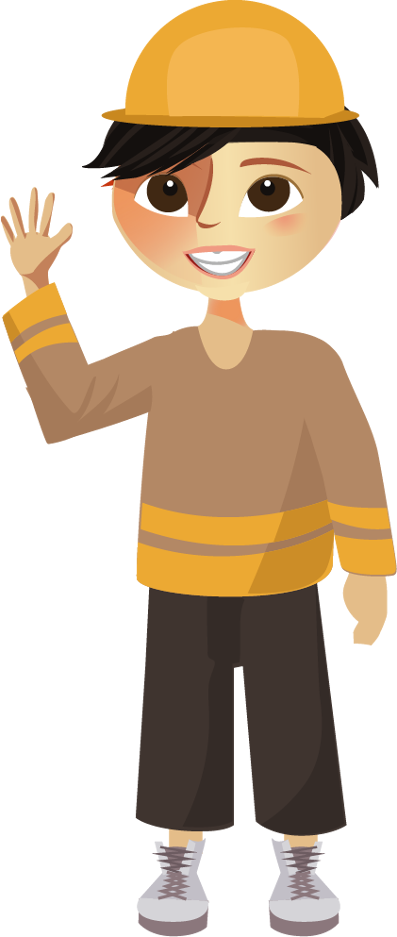
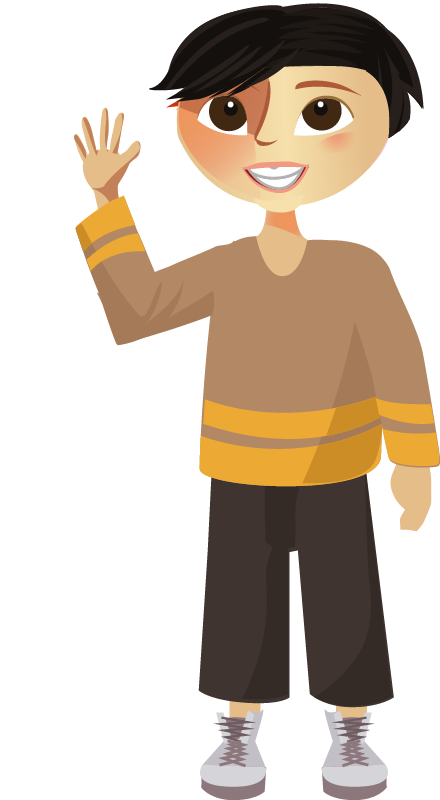
Added this cool menu animation :D
Working on Pre-RescueCatScreen

diff --git a/core/src/com/lh9/feg1/firekidsgame/files/AssetsManager.java b/core/src/com/lh9/feg1/firekidsgame/files/AssetsManager.java
@@ -14,6 +14,8 @@ public class AssetsManager extends Thread {
 
 	DataOrganizer dataOrganizer;
 
+	public Texture helmet1;
+	public Texture helmet2;
 	public Texture catHappy;
 	public Texture catSad;
 	public Texture oilButton;
@@ -26,6 +28,7 @@ public class AssetsManager extends Thread {
 	public Texture barNotFilledBlue;
 	public Texture voiceText;
 	public Texture vibrationsText;
+	public Texture roadPart;
 	public Texture textureFilteringText;
 	public Texture fpsText;
 	public Texture screenAwakeText;
@@ -205,8 +208,8 @@ public class AssetsManager extends Thread {
 		barNotFilledBlue = new Texture("others/barNotFilledBlue.png");
 		oilButton = new Texture("buttons/buttonOil.png");
 		boltButton = new Texture("buttons/buttonBolt.png");
-		oil = new Texture("others/oil.png");
-		bolt = new Texture("others/bolt.png");
+		oil = new Texture("others/Oil.png");
+		bolt = new Texture("others/Bolt.png");
 		rescueMetroSadPeople = new Texture(
 				"backgrounds/Rescue-metro-sad-people.png");
 		spritesheetBoyRunning = new Texture(
@@ -232,6 +235,8 @@ public class AssetsManager extends Thread {
 		menu = new Texture("buttons/Menu-Button.png");
 		longButton = new Texture("buttons/greenButtonLong.png");
 		arrow = new Texture("others/arrow.png");
+		helmet1 = new Texture("others/helmet1.png");
+		helmet2 = new Texture("others/helmet2.png");
 		handwheelNoHand = new Texture("others/handwheelNoHand.png");
 		button = new Texture("buttons/greenButton.png");
 		catHappy = new Texture("spritesheets/cat/Cat-happy.png");
@@ -240,6 +245,7 @@ public class AssetsManager extends Thread {
 		fireBar = new Texture("others/fireBar.png");
 		girlHead = new Texture("girl/girlHead.png");
 		basket = new Texture("spritesheets/basket.png");
+		roadPart = new Texture("backgrounds/roadPart.png");
 		boyHead = new Texture("boy/boyHead.png");
 		voiceText = new Texture("texts/Voice-text.png");
 		vibrationsText = new Texture("texts/Vibrations-text.png");
@@ -593,6 +599,8 @@ public class AssetsManager extends Thread {
 		runButtonLittle.setFilter(textureFilter, textureFilter);
 		pointer.setFilter(textureFilter, textureFilter);
 		speedBar.setFilter(textureFilter, textureFilter);
+		helmet1.setFilter(textureFilter, textureFilter);
+		helmet2.setFilter(textureFilter, textureFilter);
 		switchButton.setFilter(textureFilter, textureFilter);
 		lane.setFilter(textureFilter, textureFilter);
 		carRed.setFilter(textureFilter, textureFilter);
@@ -646,6 +654,7 @@ public class AssetsManager extends Thread {
 		boyTorso.setFilter(textureFilter, textureFilter);
 		boyHeadBigBlonde.setFilter(textureFilter, textureFilter);
 		authorsText.setFilter(textureFilter, textureFilter);
+		roadPart.setFilter(textureFilter, textureFilter);
 		fireMiniature.setFilter(textureFilter, textureFilter);
 		boyMainMenu.setFilter(textureFilter, textureFilter);
 		girlMainMenu.setFilter(textureFilter, textureFilter);

diff --git a/core/src/com/lh9/feg1/firekidsgame/screens/MenuScreen.java b/core/src/com/lh9/feg1/firekidsgame/screens/MenuScreen.java
@@ -35,6 +35,8 @@ public class MenuScreen implements Screen {
 	Button gender;
 	Button[] levelButtons;
 
+	float positions = -1000;
+	
 	boolean madeShakeScreen;
 
 	final Starter game;
@@ -69,9 +71,10 @@ public class MenuScreen implements Screen {
 
 		boy = new Human();
 		boy.create(assetsManager.boyWaving, 1, 1, 6, 1550, 0);
-		boy.setMaxSpeed(0);
+		boy.setMaxSpeed(0.25f);
 		boy.setAnimationOnly(true);
-
+		boy.setSpeed(3.5f);
+		
 		levelButtons = new Button[7];
 
 		for (int a = 0; a < 7; a++) {
@@ -114,7 +117,6 @@ public class MenuScreen implements Screen {
 		cloudManager.stop();
 
 		fireStation.goUp(825);
-
 		camera.reset();
 
 		camera.position.x = 957;
@@ -211,6 +213,12 @@ public class MenuScreen implements Screen {
 	}
 
 	void updateLogics(double delta) {
+		
+		if(positions < 0)
+			positions += delta*100 + Math.abs(positions)*0.025f;
+		if(positions > 0)
+			positions = 0;
+		
 		if (dataOrganizer.getGender() == false && gender.getSelection() == true) {
 			gender.setTexture(assetsManager.boyButton);
 			dataOrganizer.setGender(false);
@@ -239,7 +247,7 @@ public class MenuScreen implements Screen {
 				.getCatRescueScreen()) {
 			if (cloudManager.getAllScalesEqualOne() == true) {
 				dataOrganizer.saveData();
-				game.setScreen(new RescueCatScreen(game));
+				game.setScreen(new PreRescueCatScreen(game));
 			}
 		}
 		if (inputInterpreter.getSelectedScreenName() == variables
@@ -294,8 +302,13 @@ public class MenuScreen implements Screen {
 	}
 
 	void drawCharacters(float delta) {
-		batch.draw(assetsManager.girlMainMenu, 0, 0);
+		batch.draw(assetsManager.girlMainMenu, 0, positions);
+		boy.setPosition(1550, (int)positions);
 		boy.render(batch, delta);
+		boy.setSpeed(2.5f);
+		batch.draw(assetsManager.helmet1, 5, 715 + Math.abs(positions));
+		batch.draw(assetsManager.helmet2, 1700, 715 + Math.abs(positions));
+			
 	}
 
 	void drawBackground() {

diff --git a/core/src/com/lh9/feg1/firekidsgame/animated/Human.java b/core/src/com/lh9/feg1/firekidsgame/animated/Human.java
@@ -66,7 +66,7 @@ public class Human extends Animated {
 				// batch.draw(currentFrame, x - 21, y);
 				// batch.setColor(1, 1, 1, 1);
 			}
-		} else if (speed >= 5 && animationOnly == false) {
+		} else if (speed >= 2 && animationOnly == false && stateTime - animationTime > 0) {
 			batch.setColor(1, 1, 1, 0.3f);
 			batch.draw(
 					frames[(int) (stateTime - animationTime / animationTime)],
